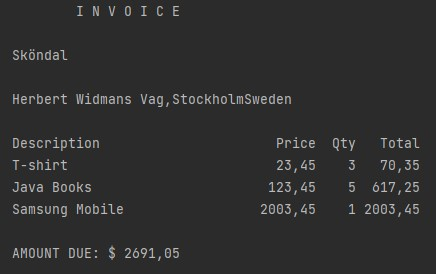
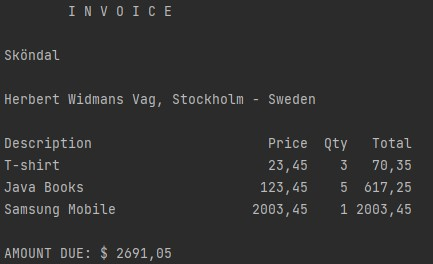
Invoice step1 started

diff --git a/src/main/java/lnu/ds/oop/invoicesA/Address.java b/src/main/java/lnu/ds/oop/invoicesA/Address.java
@@ -14,6 +14,6 @@ final public class Address {
     private  String zip;
     //Format the invoice
     public String format() {
-        return String.format("%s%n%n%s,%s%s", name, street, city,state, zip);
+        return String.format("%s%n%n%s, %s - %s", name, street, city,state, zip);
     }
 }
